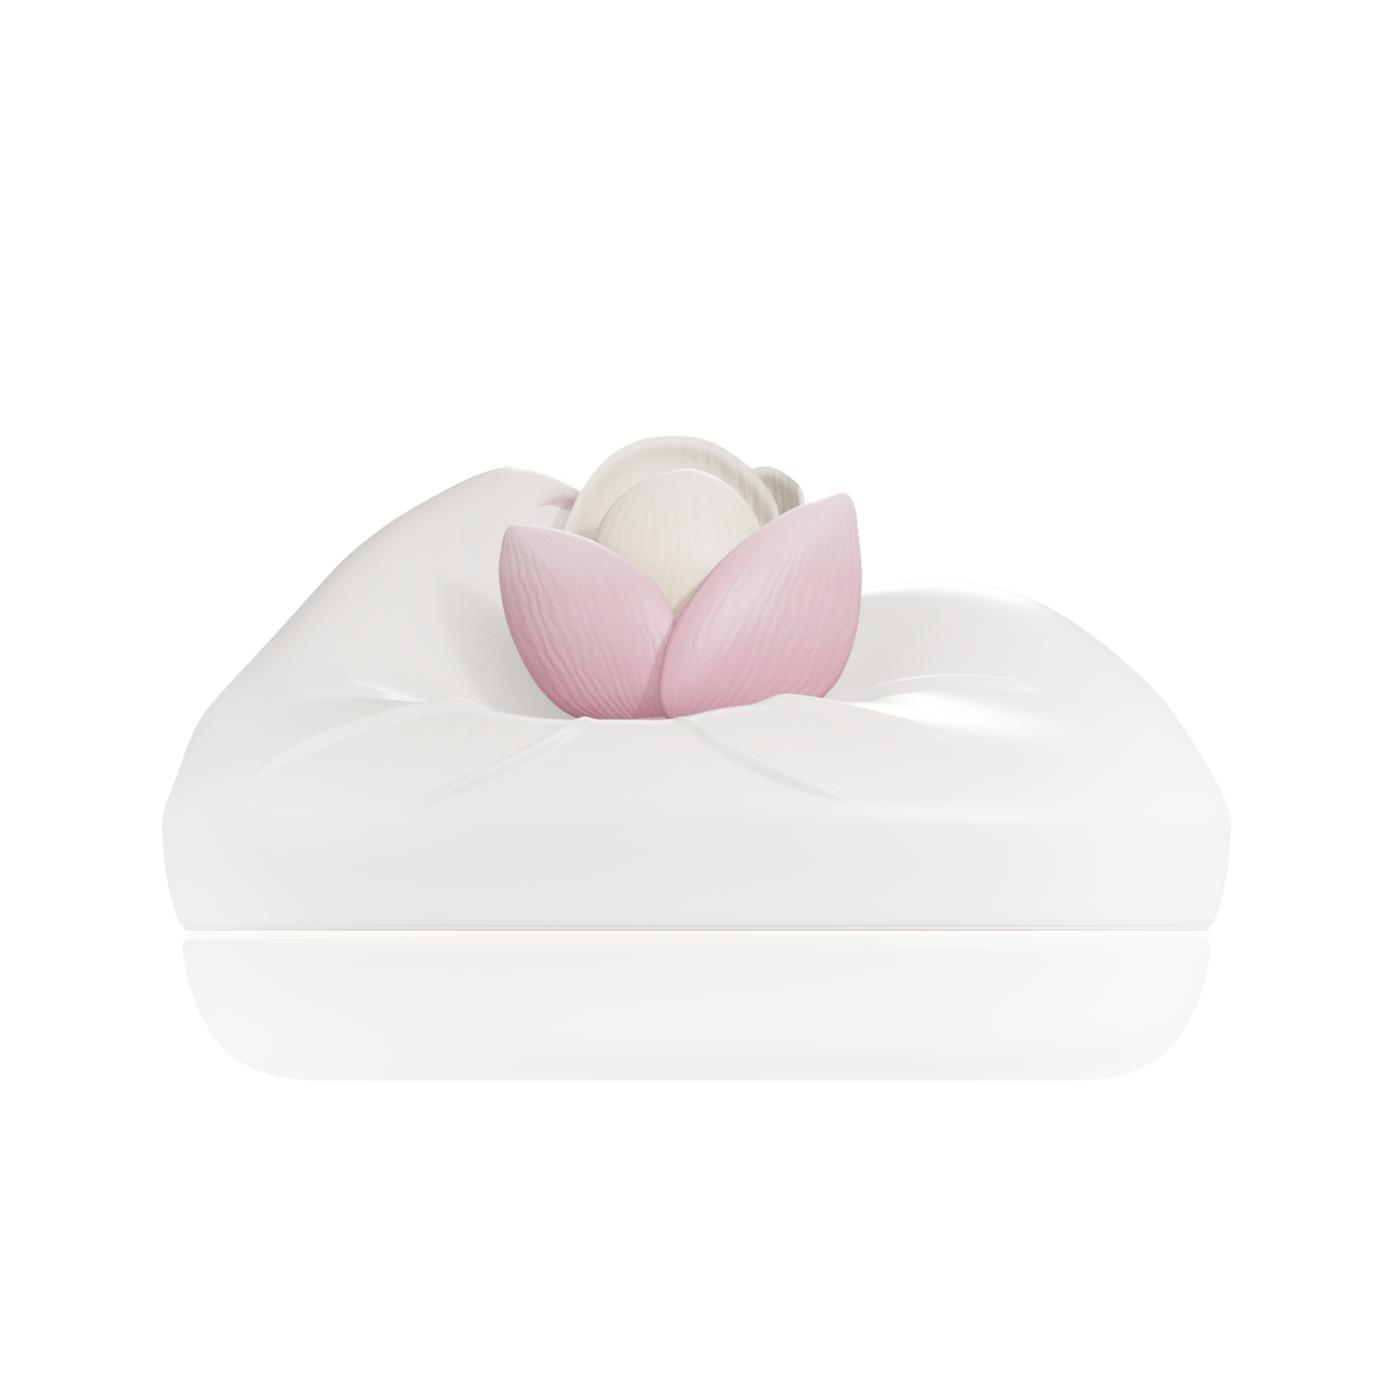
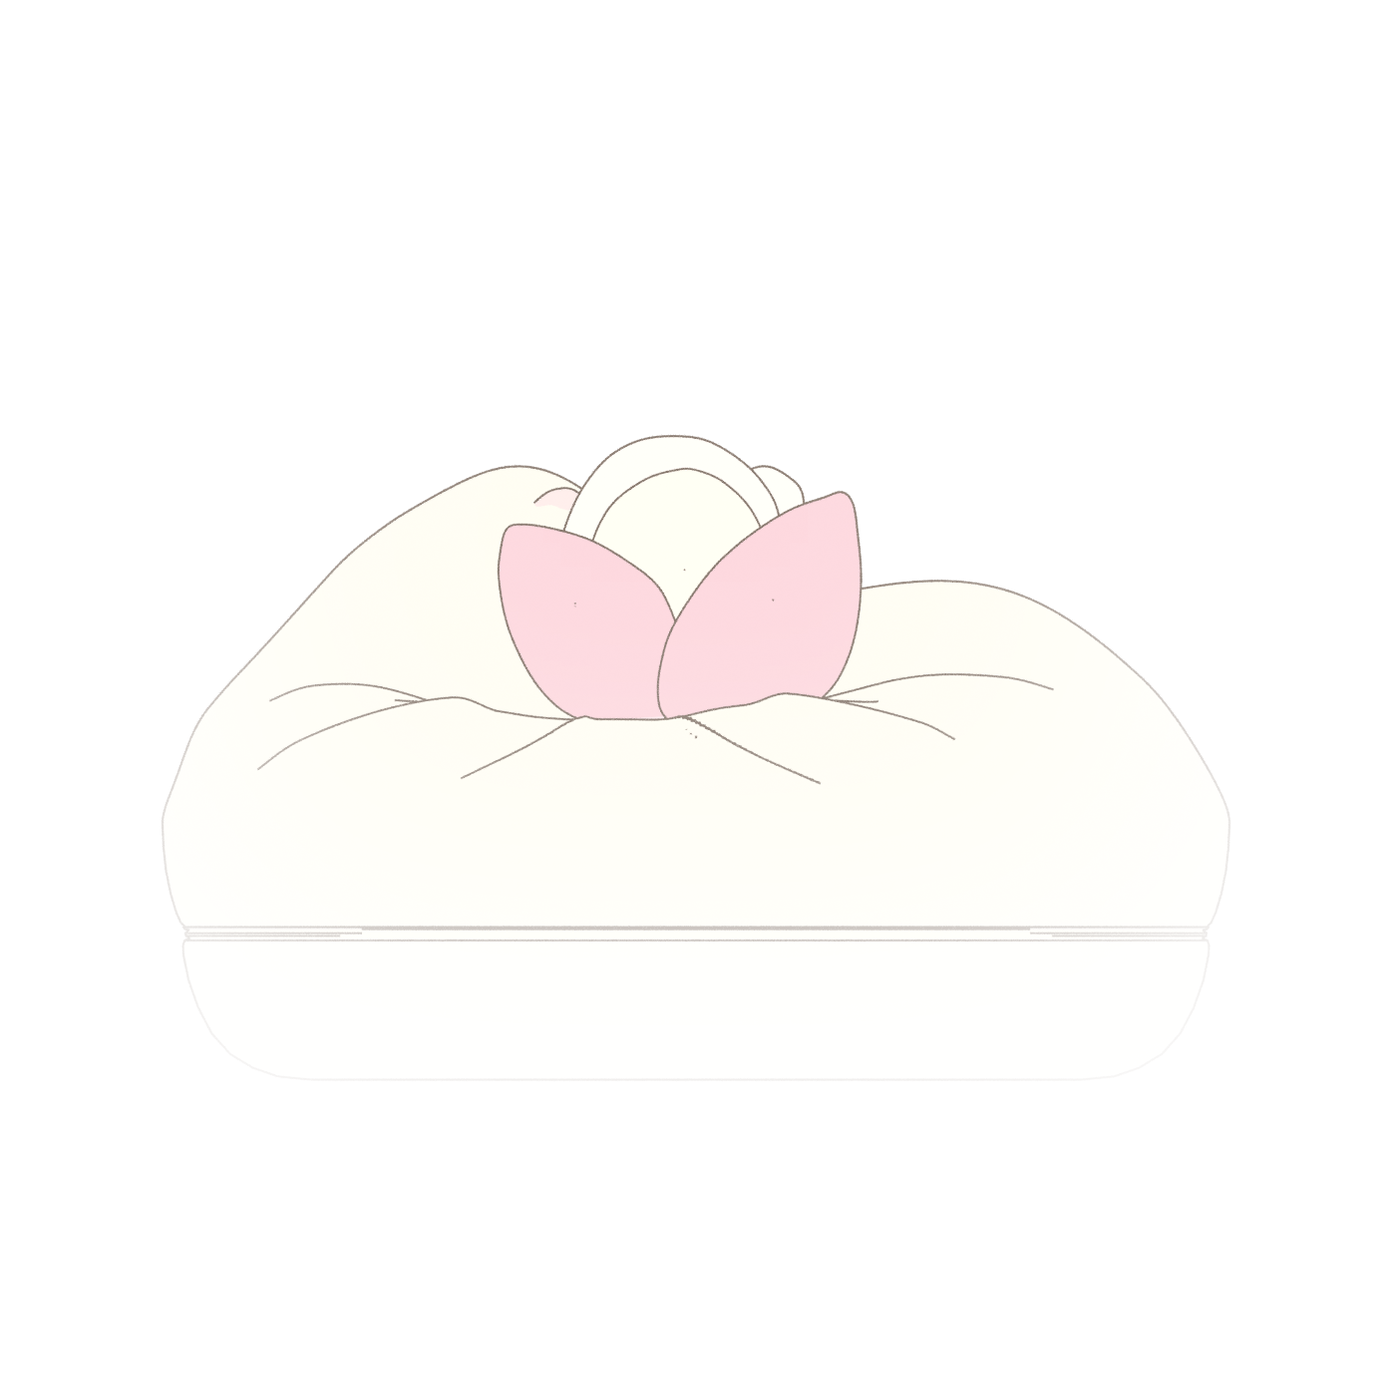
复古皮肤第二轮：香炉改线稿淡彩、导航居中、卡片放大内收、主花平滑
- 香炉：Freestyle 描边 + 发光平涂重渲收拢/开花两态，替换产品图与开花叠层
- 导航：绝对居中，与香炉中心对齐（实测 tabs.cx = censer.cx = 720）
- 两侧卡片：162×216 → 196×262，列宽 190 → 226，列间距收窄向中间靠，签耳保留
- 右上角：图标 30 → 36px，字号 17 → 19.5px
- 调节主花：12 帧改为双帧连续交叉淡入，消除跳帧感

Changed region(s): [[0.1229, 0.3071, 0.7064, 0.5836], [0.215, 0.645, 0.6143, 0.6757], [0.5529, 0.5529, 0.5836, 0.5836]]

diff --git a/css/vintage.css b/css/vintage.css
@@ -1428,3 +1428,96 @@ html[data-skin="vintage"] .tool img { width: 30px; height: 30px; }
 html[data-skin="vintage"] .tool { font-size: 17.5px; }
 
 html[data-skin="vintage"] .run-bar { height: 5px; }
+
+
+/* ============================================================
+   第三轮：导航居中于香炉正上方、两侧卡片放大并向中间收、
+   右上角入口放大
+   ============================================================ */
+
+html[data-skin="vintage"] .topbar { position: relative; }
+
+/* 导航绝对居中，不再受左右两侧宽度影响 */
+html[data-skin="vintage"] .tabs {
+  position: absolute;
+  left: 50%;
+  top: 50%;
+  transform: translate(-50%, -50%);
+  justify-self: auto;
+}
+
+html[data-skin="vintage"] .tab { font-size: 21px; padding: 6px 4px 11px; }
+
+/* 右上角三个入口放大 */
+html[data-skin="vintage"] .top-actions { gap: clamp(20px, 2.4vw, 40px); }
+html[data-skin="vintage"] .tool { font-size: 19.5px; gap: 10px; }
+html[data-skin="vintage"] .tool img { width: 36px; height: 36px; }
+html[data-skin="vintage"] .tool-caret { width: 18px; height: 18px; }
+
+/* 两侧卡片放大并向中间靠 */
+html[data-skin="vintage"] #view-today .stage {
+  grid-template-columns: 226px minmax(0, 1fr) 226px;
+  gap: clamp(10px, 1.6vw, 30px);
+  padding: 4px clamp(4px, 1vw, 18px) 0;
+}
+
+html[data-skin="vintage"] .rail {
+  width: 226px;
+  gap: 26px;
+  padding: 0 8px;
+}
+
+html[data-skin="vintage"] .rail-card,
+html[data-skin="vintage"] .rail-btn {
+  width: 196px;
+  height: 262px;
+  padding: 24px 16px 30px;
+}
+
+html[data-skin="vintage"] .rail-card[data-panel="watch"] .rail-art { width: 104px; height: 104px; }
+html[data-skin="vintage"] .rail-card[data-panel="diff"] .rail-art { width: 128px; height: 104px; }
+html[data-skin="vintage"] .rail-card[data-panel="body"] .rail-art { width: 144px; height: 84px; }
+html[data-skin="vintage"] .rail-card[data-panel="scent"] .rail-art { width: 128px; height: 92px; }
+
+html[data-skin="vintage"] .rail-title { margin-top: 10px; font-size: 17px; letter-spacing: .16em; }
+html[data-skin="vintage"] .rail-status { margin-top: 6px; font-size: 14px; }
+html[data-skin="vintage"] .rail-meta { margin-top: 3px; font-size: 14px; }
+html[data-skin="vintage"] .rail-big { font-size: 27px; }
+html[data-skin="vintage"] .rail-big small { font-size: 12px; }
+
+/* 签耳跟着卡片一起往外挪一点 */
+html[data-skin="vintage"] .rail-left .rail-toggle { left: -30px; }
+html[data-skin="vintage"] .rail-right .rail-toggle { right: -30px; }
+
+@media (max-width: 1180px) {
+  html[data-skin="vintage"] #view-today .stage { grid-template-columns: 190px minmax(0, 1fr) 190px; }
+  html[data-skin="vintage"] .rail { width: 190px; }
+  html[data-skin="vintage"] .rail-card,
+  html[data-skin="vintage"] .rail-btn { width: 166px; height: 224px; padding: 20px 12px 24px; }
+  html[data-skin="vintage"] .rail-card[data-panel="watch"] .rail-art { width: 88px; height: 88px; }
+  html[data-skin="vintage"] .rail-card[data-panel="diff"] .rail-art { width: 108px; height: 88px; }
+  html[data-skin="vintage"] .rail-card[data-panel="body"] .rail-art { width: 122px; height: 70px; }
+  html[data-skin="vintage"] .rail-card[data-panel="scent"] .rail-art { width: 108px; height: 78px; }
+}
+
+
+/* 主花：双帧交叉淡入，消除 12 帧的跳帧感 */
+html[data-skin="vintage"] .flower-stage { position: relative; }
+html[data-skin="vintage"] .flower-frame {
+  position: absolute;
+  inset: 0;
+  width: 100%;
+  height: 100%;
+  object-fit: contain;
+}
+html[data-skin="vintage"] #tuneFlowerB { opacity: 0; will-change: opacity; }
+
+
+/* 线稿香炉：给一点纸面投影，白底上也能立住 */
+html[data-skin="vintage"] .censer-wrap .censer-art {
+  filter: drop-shadow(0 10px 18px rgba(20, 28, 38, .18));
+}
+html[data-skin="vintage"][data-theme="day"] .censer-wrap .censer-art {
+  filter: drop-shadow(0 10px 16px rgba(104, 82, 56, .16));
+}
+html[data-skin="vintage"] .censer-wrap .glow-layer { filter: none; }

diff --git a/js/vintage.js b/js/vintage.js
@@ -161,8 +161,10 @@
   var viewAdjust = $('#view-adjust');
 
   var SEQ = [];
-  var seqState = { raf: 0, start: 0, frame: 0, running: false };
+  var seqState = { raf: 0, start: 0, i0: -1, i1: -1, running: false };
   var SEQ_MS = 3600;          // 一轮 3.6 秒（交接说明的建议值）
+  var frameA = $('#tuneFlowerA');
+  var frameB = $('#tuneFlowerB');
 
   for (var i = 1; i <= FRAMES; i++) {
     var im = new Image();
@@ -170,22 +172,30 @@
     SEQ.push(im);
   }
 
+  function seqSrc(idx) {
+    return 'assets/vintage/flower/f' + (idx < 9 ? '0' + (idx + 1) : (idx + 1)) + '.webp';
+  }
+
+  /* 12 帧只有 12 个关键姿态，直接换图会一顿一顿。
+     这里用两张 img 叠着做连续交叉淡入：任意时刻只差一个混合量，
+     观感是连续的，不需要更多素材。 */
   function seqTick(now) {
     if (!seqState.running) return;
     if (!seqState.start) seqState.start = now;
     var t = ((now - seqState.start) % SEQ_MS) / SEQ_MS;
-    // 01 最收拢、06 最舒展：用余弦让两端缓一点
-    var idx = Math.round(t * (FRAMES - 1));
-    idx = clamp(idx, 0, FRAMES - 1);
-    if (idx !== seqState.frame && flowerImg) {
-      seqState.frame = idx;
-      flowerImg.src = SEQ[idx].src;
-    }
+    var pos = t * FRAMES;
+    var i0 = Math.floor(pos) % FRAMES;
+    var i1 = (i0 + 1) % FRAMES;
+    var f = pos - Math.floor(pos);
+    if (!frameA || !frameB) return;
+    if (i0 !== seqState.i0) { frameA.src = seqSrc(i0); seqState.i0 = i0; }
+    if (i1 !== seqState.i1) { frameB.src = seqSrc(i1); seqState.i1 = i1; }
+    frameB.style.opacity = f.toFixed(3);
     seqState.raf = window.requestAnimationFrame(seqTick);
   }
 
   function startSequence() {
-    if (seqState.running || !flowerImg) return;
+    if (seqState.running || !frameA) return;
     seqState.running = true;
     seqState.start = 0;
     seqState.raf = window.requestAnimationFrame(seqTick);

diff --git a/index.html b/index.html
@@ -244,7 +244,8 @@
         <div class="tune-main" id="tuneMain">
           <canvas class="petal-layer" id="petalLayer" aria-hidden="true"></canvas>
           <div class="flower-stage" id="tuneFlower">
-            <img id="tuneFlowerImg" src="assets/vintage/flower/f01.webp" alt="辛夷花" draggable="false" />
+            <img class="flower-frame" id="tuneFlowerA" src="assets/vintage/flower/f01.webp" alt="辛夷花" draggable="false" />
+            <img class="flower-frame" id="tuneFlowerB" src="assets/vintage/flower/f02.webp" alt="" aria-hidden="true" draggable="false" />
           </div>
           <div class="mix-arc-wrap">
             <svg id="mixArc" class="mix-arc" viewBox="0 0 520 132" aria-hidden="true" focusable="false">
